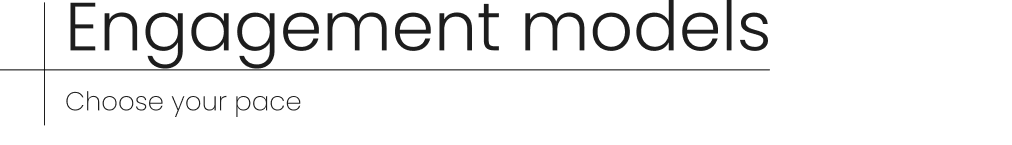
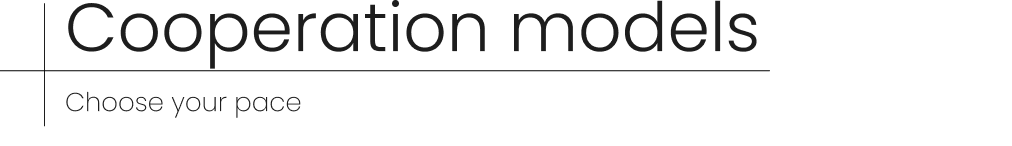
MVP-61

diff --git a/styles.css b/styles.css
@@ -100,7 +100,7 @@
 
 .contacts-final__left h2 {
   margin: 0;
-  font-size: clamp(44px, 1.8vw, 72px);
+  font-size: clamp(38px, 1.8vw, 72px);
   line-height: 1.32;
   letter-spacing: -0.03em;
   font-weight: 800;
@@ -257,7 +257,7 @@ body.mode-form #contact-final {
   }
 
   .contacts-final__left h2 {
-    font-size: clamp(34px, 10vw, 52px);
+    font-size: clamp(28px, 10vw, 52px);
   }
 
   .contacts-final__right {
@@ -3854,7 +3854,7 @@ body.mode-form .brand__whatsapp {
   }
 
   .contacts-final__left h2 {
-    font-size: 120px !important;
+    font-size: 100px !important;
   }
 
   .contacts-final__lead {
